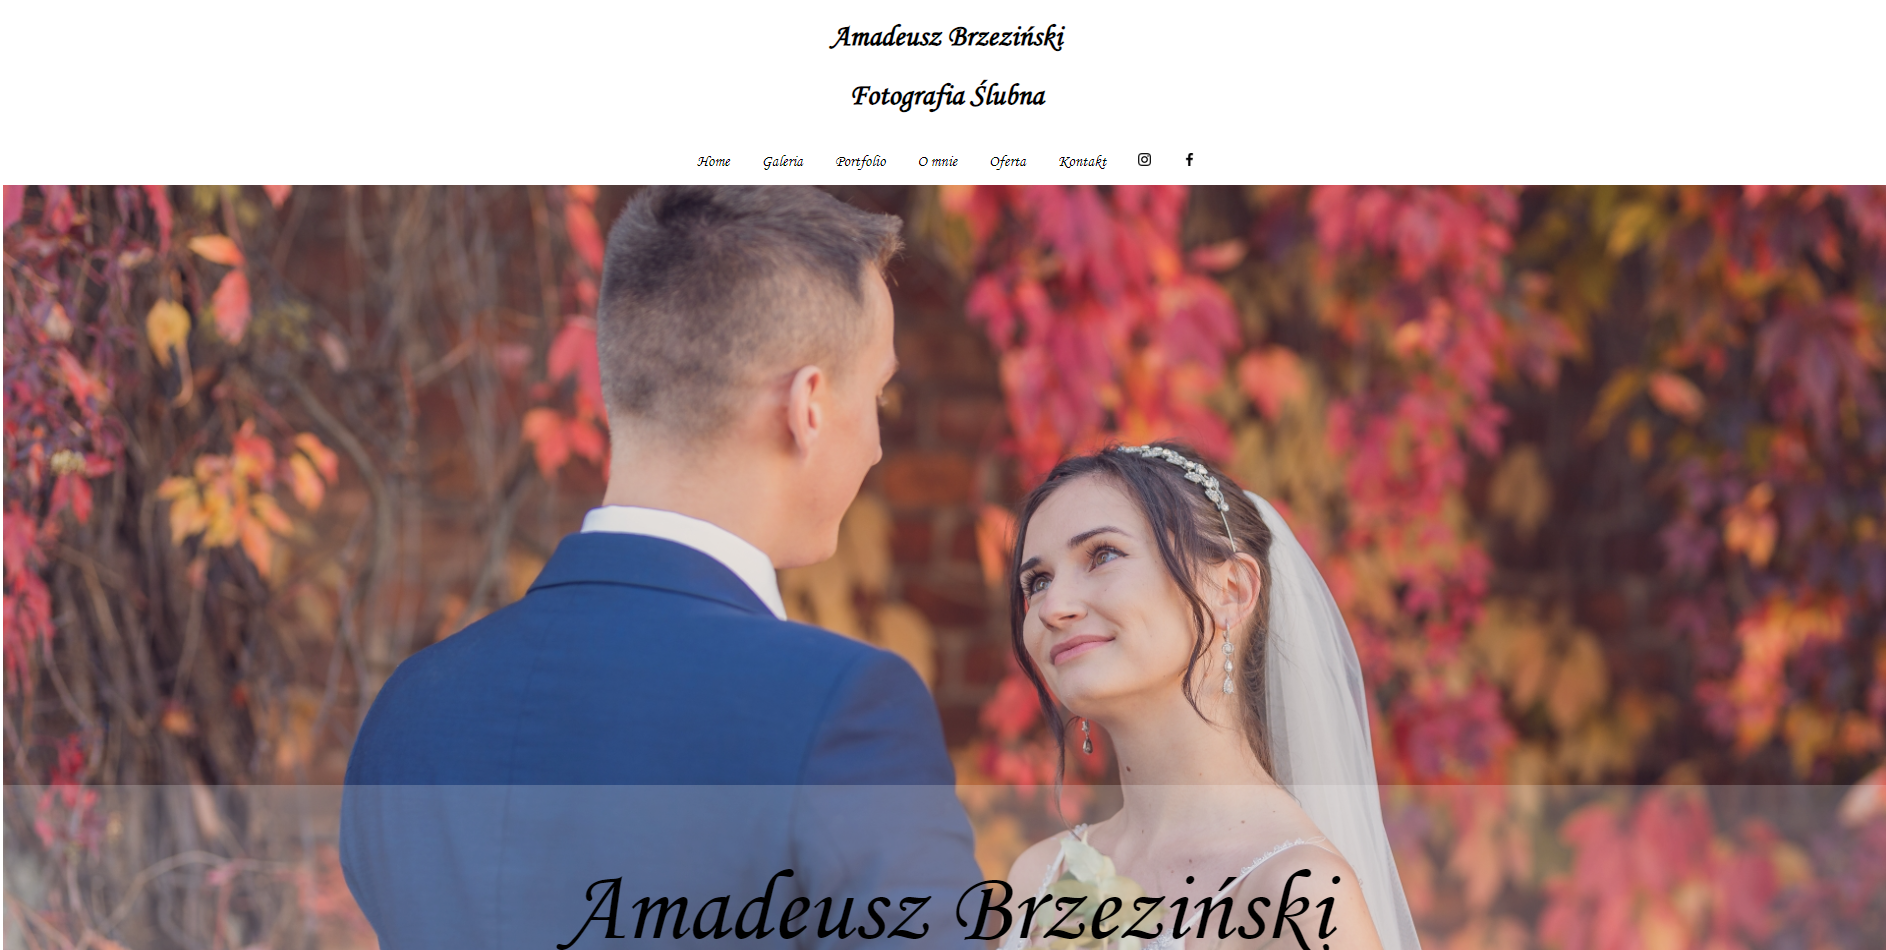
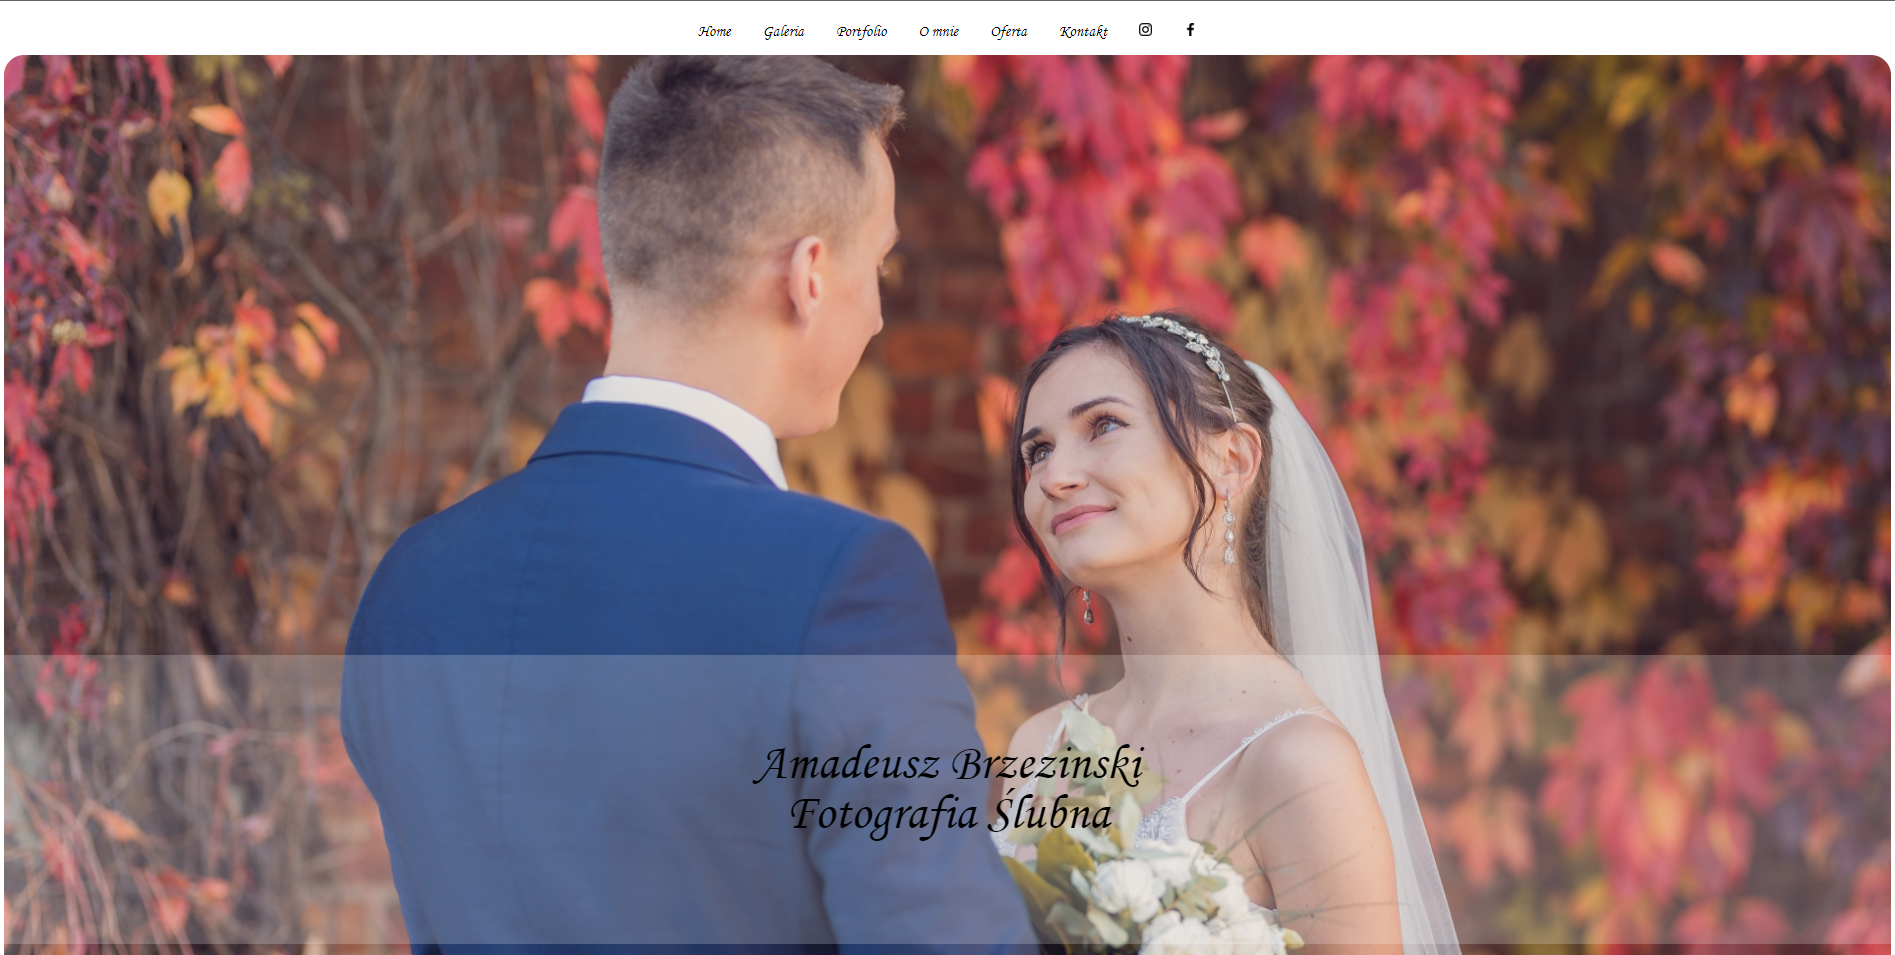
Mainpage change

diff --git a/style.css b/style.css
@@ -15,6 +15,16 @@
     float: inside;
     width: 33%;
 }
+.LEFT50{
+    float: left;
+    width: 50%;
+    height: 400px;
+}
+.RIGHT50{
+    float: right;
+    width: 50%;
+    height: 400px;
+}
 
 .rightcolumn{
     float: right;
@@ -53,7 +63,7 @@ li a:hover{background-color: white}
 
 .overlay {
     margin-top: 600px;
-    margin-bottom: 200px;
+    margin-bottom: 370px;
     position: absolute;
     top: 0;
     left: 0;
@@ -65,12 +75,19 @@ li a:hover{background-color: white}
 
 .overlay-text {
     position: absolute;
-    top: 50%;
+    bottom: 20px; /* Odległość od dołu kontenera */
     left: 50%;
-    transform: translate(-50%, -50%); /* Wyśrodkowanie tekstu */
-    color: black; /* Kolor tekstu */
-    font-size: 100px; /* Rozmiar tekstu */
+    transform: translateX(-50%); /* Wyśrodkowanie tekstu poziomo */
+    color: black; /* Kolor tekstu (możesz dostosować kolor tekstu) */
+    font-size: 50px; /* Rozmiar tekstu */
     text-align: center; /* Wyśrodkowanie tekstu */
-    font-family: "Monotype Corsiva";
     z-index: 2; /* Wyświetl tekst nad powłoką */
+    margin-bottom: 500px;
+    font-family: "Monotype Corsiva";
+}
+.second-text {
+    bottom: -30px;
+}/* Odległość od dołu kontenera dla drugiego napisu */
+.rounded-image {
+    border-radius: 20px; /* Określenie promienia zaokrąglenia rogów */
 }

diff --git a/Main.html b/Main.html
@@ -6,10 +6,6 @@
     <link rel="stylesheet" type="text/css" href="style.css">
 </head>
 <body>
-<div class="header">
-    <h2>Amadeusz Brzeziński</h2>
-    <h2>Fotografia Ślubna</h2>
-</div>
 <ul>
     <li><a href="LINK">Home</a></li>
     <li><a href="LINK">Galeria</a></li>
@@ -27,10 +23,16 @@
     </li>
 </ul>
 <div class="image-container">
-    <img src="Photos/DSC_6097.jpg" width="100%" height="100%">
+    <img class="rounded-image" src="Photos/DSC_6097.jpg" width="100%" height="100%">
     <div class="overlay"></div>
-    <p class="overlay-text">Amadeusz Brzeziński</p>
+    <p class="overlay-text">Amadeusz Brzezinski</p>
+    <p class="overlay-text second-text">Fotografia Ślubna</p>
 </div>
+<div class="LEFT50" style="background-color: burlywood; margin-top: -45px">
 
+</div>
+<div class="RIGHT50">
+
+</div>
 </body>
 </html>
